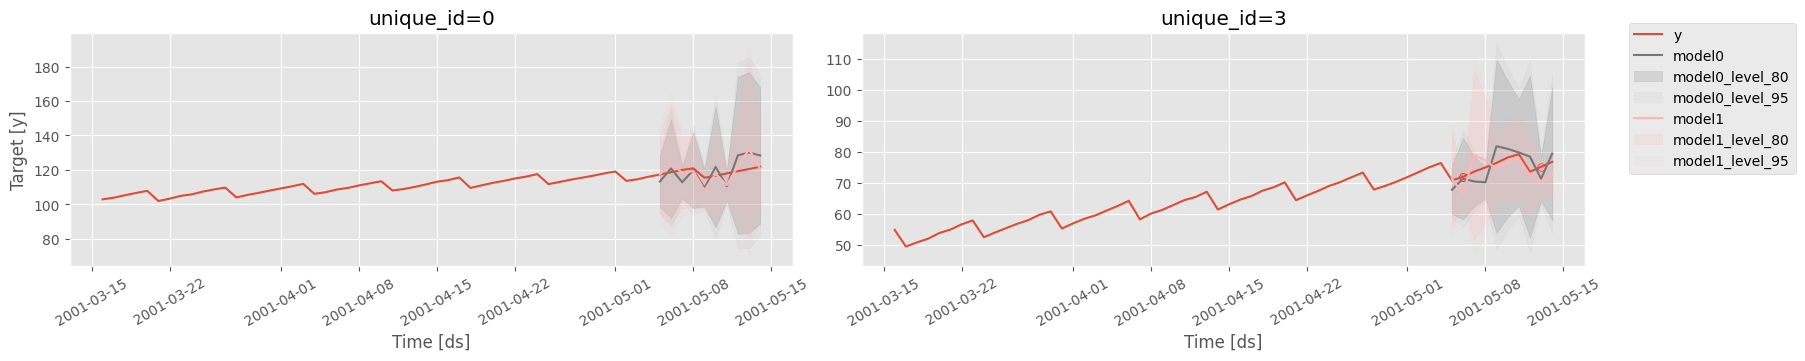
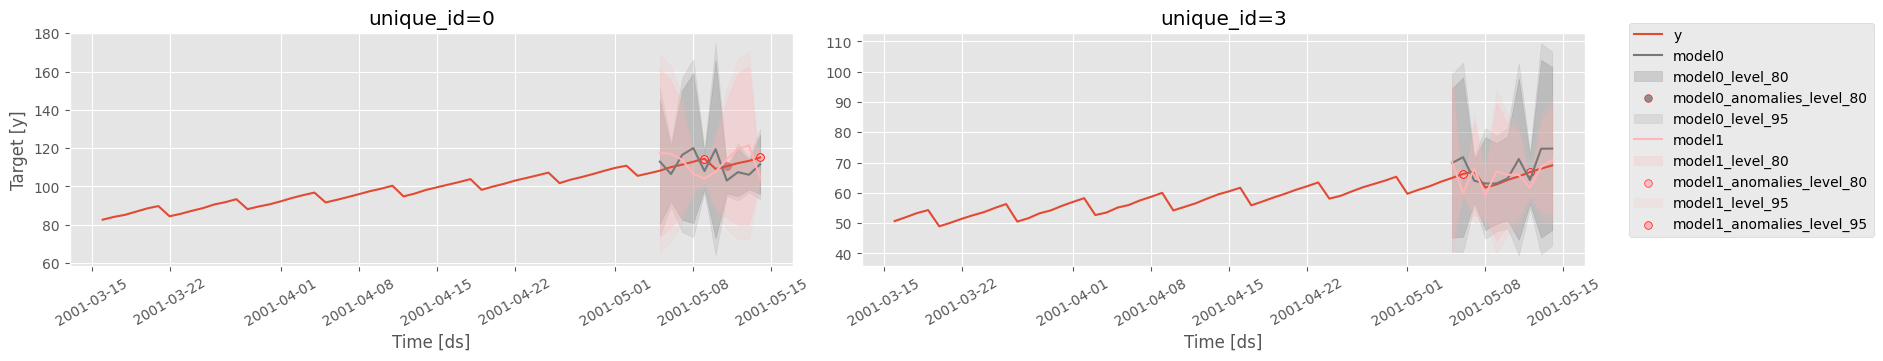
hotfix: Add new transparency values (Nixtla/utilsforecast#165)

diff --git a/packages/utilsforecast/utilsforecast/plotting.py b/packages/utilsforecast/utilsforecast/plotting.py
@@ -289,11 +289,14 @@ def plot_series(
         for level in levels:
             lo = df[f"{y_col}-lo-{level}"]
             hi = df[f"{y_col}-hi-{level}"]
+            min_alpha = 0.1  # fix alpha to avoid transparency issues
+            max_alpha = 0.9
+            alpha = max_alpha - (float(level) / 100) * (max_alpha - min_alpha)
             axi.fill_between(
                 times,
                 lo,
                 hi,
-                alpha=-float(level) / 100 + 1,
+                alpha=alpha,
                 color=color,
                 label=f"{y_col}_level_{level}",
             )
@@ -335,6 +338,9 @@ def plot_series(
             name = f"{y_col}_level_{level}"
             lo = df[f"{y_col}-lo-{level}"]
             hi = df[f"{y_col}-hi-{level}"]
+            min_alpha = 0.1
+            max_alpha = 0.9
+            alpha = max_alpha - (float(level) / 100) * (max_alpha - min_alpha)
             y = np.concatenate([hi, lo[::-1]])
             fig.add_trace(
                 go.Scatter(
@@ -343,7 +349,7 @@ def plot_series(
                     fill="toself",
                     mode="lines",
                     fillcolor=color,
-                    opacity=-float(level) / 100 + 1,
+                    opacity=alpha,
                     name=name,
                     legendgroup=name,
                     line=dict(color=color, width=1),
